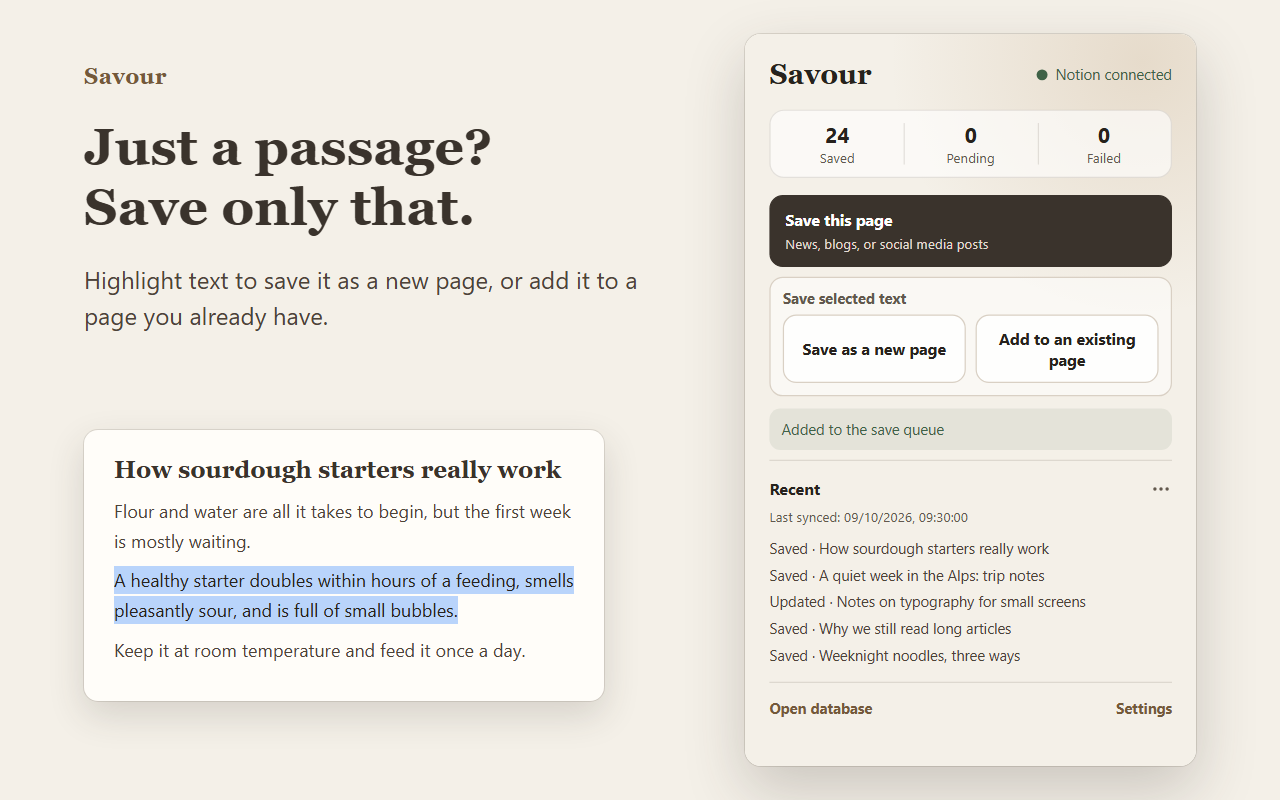
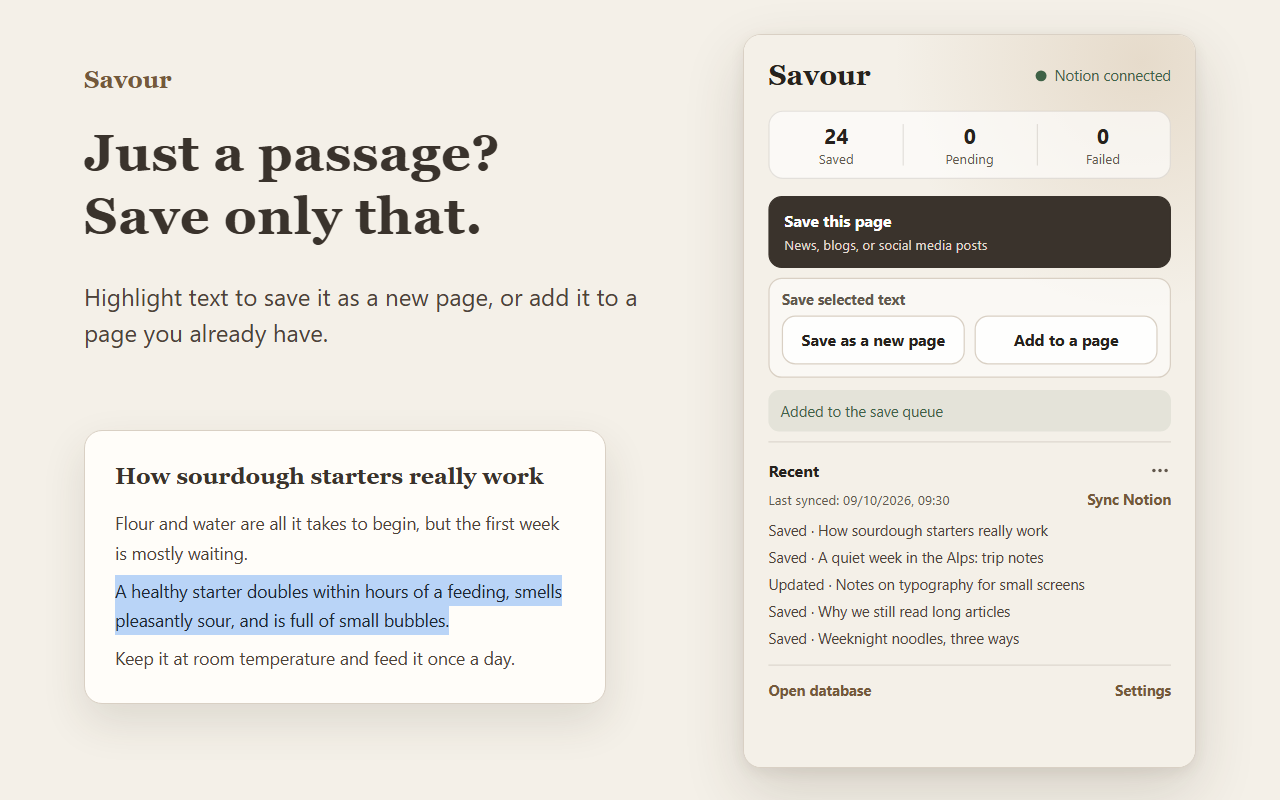
Store: retake the screenshots for the moved Sync Notion button, and keep the tool that takes them
The popup shots now show Sync Notion beside the last sync time and the one-line "Add to a page".
`npm run screenshots` loads the real popup and settings page with a fake chrome API and demo data
and photographs them with headless Chrome.

diff --git a/scripts/store-screenshots/compose.html b/scripts/store-screenshots/compose.html
@@ -1,0 +1,94 @@
+<!doctype html>
+<!--
+  One store screenshot, 1280x800: the headline on the left, the real popup or settings page on the right
+  in an iframe. index.js opens it as compose.html?lang=zh|en&scene=save|selection|update|setup.
+  The headlines and the demo article live here; the demo data inside the popup lives in mock.js.
+-->
+<html>
+<head>
+<meta charset="utf-8">
+<link rel="stylesheet" href="/pages/tokens.css">
+<style>
+  html, body { margin: 0; width: 1280px; height: 800px; overflow: hidden; background: var(--bg); font-family: var(--font-sans); }
+  .copy { position: absolute; left: 84px; width: 560px; }
+  .copy.center { top: 50%; transform: translateY(-50%); }
+  .copy.top { top: 66px; }
+  .brand { font-family: var(--font-serif); font-weight: 700; font-size: 24px; color: var(--accent); margin: 0 0 28px; }
+  h1 { font-family: var(--font-serif); font-weight: 700; font-size: 52px; line-height: 1.22; color: var(--brand); margin: 0 0 30px; letter-spacing: 0.01em; }
+  .sub { font-size: 24px; line-height: 1.5; color: var(--ink-soft); margin: 0; }
+  .card { position: absolute; right: 84px; border: 1px solid var(--line); border-radius: 18px; overflow: hidden; background: var(--bg);
+    box-shadow: 0 24px 60px rgba(60, 48, 34, 0.16), 0 4px 14px rgba(60, 48, 34, 0.08); }
+  iframe { border: 0; display: block; transform-origin: 0 0; }
+  .article { position: absolute; left: 84px; top: 430px; width: 460px; padding: 26px 30px 30px; background: var(--surface); border: 1px solid var(--line);
+    border-radius: 18px; box-shadow: 0 18px 44px rgba(60, 48, 34, 0.12); color: var(--ink-soft); font-size: 17.5px; line-height: 1.7; }
+  .article h2 { font-family: var(--font-serif); font-size: 23px; color: var(--brand); margin: 0 0 12px; }
+  .article p { margin: 0 0 8px; }
+  .article p:last-child { margin: 0; }
+  mark { background: #b9d4f7; color: #1d2733; padding: 4px 0; }
+</style>
+</head>
+<body>
+<script>
+const q = new URLSearchParams(location.search);
+const lang = q.get("lang") === "en" ? "en" : "zh";
+const scene = q.get("scene") || "save";
+const COPY = {
+  zh: {
+    save: ["先存再說，<br>之後慢慢讀。", "點一下，把感興趣的內容存進自己的 Notion。"],
+    selection: ["只存一段，<br>也可以。", "反白文字存成新頁面，或加到已有的頁面。"],
+    update: ["原文變更，<br>更新就好。", "用最新內容換掉原文，你寫的筆記都留在原位。"],
+    setup: ["連線一次，<br>開始保存。", "文章與貼文直接從你的瀏覽器送到你自己的 Notion 資料庫。"],
+    article: ["酸種麵包的酵母到底怎麼養", "只需要麵粉和水就能開始，但第一週大多是在等待。", "健康的酵母在餵食後幾小時內就會長大一倍，帶著淡淡酸香，佈滿細小的氣泡。", "放在室溫下，每天餵食一次。"]
+  },
+  en: {
+    save: ["Save now.<br>Savour later.", "One click saves what interests you into your own Notion."],
+    selection: ["Just a passage?<br>Save only that.", "Highlight text to save it as a new page, or add it to a page you already have."],
+    update: ["Content changed?<br>Update it.", "Replace the saved original with the latest version. Your notes stay where you put them."],
+    setup: ["Connect once.<br>Keep it yours.", "Your articles and posts go straight from your browser to your own Notion database."],
+    article: ["How sourdough starters really work", "Flour and water are all it takes to begin, but the first week is mostly waiting.", "A healthy starter doubles within hours of a feeding, smells pleasantly sour, and is full of small bubbles.", "Keep it at room temperature and feed it once a day."]
+  }
+}[lang];
+document.documentElement.lang = lang === "en" ? "en" : "zh-Hant";
+const [headline, sub] = COPY[scene];
+document.body.insertAdjacentHTML("beforeend",
+  `<div class="copy ${scene === "selection" ? "top" : "center"}"><p class="brand">Savour</p><h1>${headline}</h1><p class="sub">${sub}</p></div>`);
+if (scene === "selection") {
+  const [title, a, b, c] = COPY.article;
+  document.body.insertAdjacentHTML("beforeend", `<div class="article"><h2>${title}</h2><p>${a}</p><p><mark>${b}</mark></p><p>${c}</p></div>`);
+}
+const card = document.createElement("div");
+card.className = "card";
+const frame = document.createElement("iframe");
+card.appendChild(frame);
+document.body.appendChild(card);
+const MAX_H = 760;
+function place(width, scale, contentHeight, minHeight) {
+  let height = Math.max(contentHeight * scale, minHeight);
+  if (height > MAX_H) { scale = MAX_H / contentHeight; height = MAX_H; }
+  frame.style.width = `${width}px`;
+  frame.style.height = `${height / scale}px`;
+  frame.style.transform = `scale(${scale})`;
+  card.style.width = `${width * scale}px`;
+  card.style.height = `${height}px`;
+  card.style.top = `${(800 - height) / 2}px`;
+}
+if (scene === "setup") {
+  frame.src = `/pages/options/options.html?lang=${lang}&scene=${scene}`;
+  place(780, 0.7, 720 / 0.7, 720);
+  frame.addEventListener("load", () => setTimeout(() => {
+    const doc = frame.contentDocument;
+    const section = doc.querySelectorAll(".form-card")[1];
+    doc.documentElement.style.scrollbarWidth = "none";
+    frame.contentWindow.scrollTo(0, section.getBoundingClientRect().top + frame.contentWindow.scrollY - 24);
+  }, 600));
+} else {
+  frame.src = `/pages/popup/popup.html?lang=${lang}&scene=${scene}`;
+  place(370, 1.22, 600, 732);
+  frame.addEventListener("load", () => setTimeout(() => {
+    const doc = frame.contentDocument;
+    place(370, 1.22, doc.querySelector(".popup-shell").getBoundingClientRect().height, 732);
+  }, scene === "selection" ? 1200 : 500));
+}
+</script>
+</body>
+</html>

diff --git a/scripts/store-screenshots/index.js b/scripts/store-screenshots/index.js
@@ -1,0 +1,114 @@
+/**
+ * Retakes the Chrome Web Store screenshots: store/screenshots/<zh-TW|en>/01-save … 04-setup, 1280x800 each.
+ *
+ * Serves this folder as a website, loads the real popup.html and options.html with a fake chrome API
+ * (mock.js) and demo data, lays each one out next to its headline (compose.html) and photographs it with
+ * headless Chrome. It does not touch the extension's code or the promo tiles in store/promo.
+ *
+ * Usage: npm run screenshots   (set CHROME_PATH when Chrome is not in its usual place)
+ */
+"use strict";
+
+const fs = require("node:fs");
+const http = require("node:http");
+const os = require("node:os");
+const path = require("node:path");
+const { execFile } = require("node:child_process");
+const { promisify } = require("node:util");
+
+const run = promisify(execFile);
+
+const ROOT = path.resolve(__dirname, "../..");
+const OUT = path.join(ROOT, "store", "screenshots");
+const LANGUAGES = [["zh", "zh-TW"], ["en", "en"]];
+const SCENES = ["save", "selection", "update", "setup"];
+const TYPES = /** @type {Record<string, string>} */ ({
+  ".html": "text/html; charset=utf-8",
+  ".js": "text/javascript; charset=utf-8",
+  ".css": "text/css; charset=utf-8",
+  ".png": "image/png",
+  ".svg": "image/svg+xml"
+});
+
+// ---- Local server ----
+
+// The extension's pages get mock.js first, so `chrome` exists before their own scripts run.
+const EXTENSION_PAGE = /^\/pages\/(?:popup|options)\/[\w-]+\.html$/;
+
+function serve(/** @type {http.IncomingMessage} */ request, /** @type {http.ServerResponse} */ response) {
+  const pathname = decodeURIComponent(new URL(request.url ?? "/", "http://localhost").pathname);
+  const file = pathname === "/mock.js" || pathname === "/compose.html"
+    ? path.join(__dirname, pathname)
+    : path.join(ROOT, pathname);
+  if (!path.resolve(file).startsWith(ROOT)) {
+    response.writeHead(403).end();
+    return;
+  }
+  fs.readFile(file, (error, data) => {
+    if (error) {
+      response.writeHead(404).end();
+      return;
+    }
+    const body = EXTENSION_PAGE.test(pathname)
+      ? String(data).replace("<head>", '<head><script src="/mock.js"></script>')
+      : data;
+    response.writeHead(200, { "content-type": TYPES[path.extname(file)] ?? "application/octet-stream", "cache-control": "no-store" });
+    response.end(body);
+  });
+}
+
+// ---- Chrome ----
+
+function findChrome() {
+  const candidates = [
+    process.env.CHROME_PATH,
+    "C:/Program Files/Google/Chrome/Application/chrome.exe",
+    "C:/Program Files (x86)/Google/Chrome/Application/chrome.exe",
+    "/Applications/Google Chrome.app/Contents/MacOS/Google Chrome",
+    "/usr/bin/google-chrome",
+    "/usr/bin/chromium"
+  ];
+  const found = candidates.find(candidate => candidate && fs.existsSync(candidate));
+  if (!found) throw new Error("Chrome not found. Set CHROME_PATH to the Chrome executable.");
+  return found;
+}
+
+// Not execFileSync: the server above has to keep answering while Chrome runs.
+function shoot(/** @type {string} */ chromePath, /** @type {string} */ url, /** @type {string} */ file, /** @type {string} */ profile) {
+  return run(chromePath, [
+    "--headless=new",
+    "--disable-gpu",
+    "--hide-scrollbars",
+    "--force-device-scale-factor=1",
+    "--window-size=1280,800",
+    // Lets the page finish its own timers (the popup's refresh, the selection scene's click) before the shot.
+    "--virtual-time-budget=6000",
+    `--user-data-dir=${profile}`,
+    `--screenshot=${file}`,
+    url
+  ]);
+}
+
+// ---- Run ----
+
+const chromePath = findChrome();
+const profile = fs.mkdtempSync(path.join(os.tmpdir(), "savour-screenshots-"));
+const server = http.createServer(serve).listen(0, "127.0.0.1", async () => {
+  const { port } = /** @type {import("node:net").AddressInfo} */ (server.address());
+  try {
+    for (const [language, folder] of LANGUAGES) {
+      fs.mkdirSync(path.join(OUT, folder), { recursive: true });
+      for (const [index, scene] of SCENES.entries()) {
+        const file = path.join(OUT, folder, `0${index + 1}-${scene}.png`);
+        await shoot(chromePath, `http://127.0.0.1:${port}/compose.html?lang=${language}&scene=${scene}`, file, profile);
+        console.log(path.relative(ROOT, file));
+      }
+    }
+  } catch (error) {
+    console.error(error.message);
+    process.exitCode = 1;
+  } finally {
+    server.close();
+    fs.rmSync(profile, { recursive: true, force: true });
+  }
+});

diff --git a/scripts/store-screenshots/mock.js b/scripts/store-screenshots/mock.js
@@ -1,0 +1,56 @@
+/**
+ * A fake `chrome` API with demo data, so popup.html and options.html render outside the extension.
+ *
+ * Injected by index.js ahead of the page's own scripts. Answers only the messages those two pages send
+ * while a screenshot is taken; `?lang=zh|en` picks the language and `?scene=` the state to show.
+ */
+"use strict";
+
+(() => {
+  const q = new URLSearchParams(location.search);
+  const lang = q.get("lang") === "en" ? "en" : "zh";
+  const scene = q.get("scene") || "save";
+  const page = n => `https://www.notion.so/demo-${n}`;
+  const titles = lang === "en"
+    ? ["How sourdough starters really work", "A quiet week in the Alps: trip notes", "Notes on typography for small screens", "Why we still read long articles", "Weeknight noodles, three ways"]
+    : ["酸種麵包的酵母到底怎麼養", "阿爾卑斯山的安靜一週：旅行筆記", "給小螢幕的排版筆記", "為什麼我們還是愛讀長文", "平日晚餐的三種拌麵"];
+  const DB = "https://www.notion.so/0123456789abcdef0123456789abcdef";
+  const status = {
+    configured: true, hasToken: true, hasArchive: true, databaseUrl: DB, archiveName: "留己看",
+    pending: 0, failed: 0, saved: 24, incompleteThreads: [],
+    recent: titles.map((title, i) => ({ key: `k${i}`, title, notionUrl: page(i), result: i === 2 ? "updated" : "saved", at: "" })),
+    lastSyncedAt: new Date(2026, 9, 9, 9, 30, 0).toISOString()
+  };
+  const handlers = {
+    TAKE_PENDING_PICKER: () => ({}),
+    GET_STATUS: () => status,
+    GET_ACTIVE_PAGE_STATUS: () => scene === "update"
+      ? { supported: true, status: "saved", title: titles[2], notionUrl: page(2) }
+      : { supported: true, status: "new", title: "", notionUrl: "" },
+    CAPTURE_ACTIVE_SELECTION: () => ({ ...status, added: 1, duplicates: 0, captureSummary: { longTextCount: 0, imageCount: 0, warnings: [] } }),
+    GET_CONFIG: () => ({ hasToken: true, rememberToken: true, uiLanguage: lang, parentPageUrl: "", archiveName: "留己看", databaseUrl: DB, dataSourceId: "0123456789abcdef0123456789abcdef", archiveTarget: "" }),
+    LIST_NOTION_DATA_SOURCES: () => ({
+      dataSources: [
+        { id: "0123456789abcdef0123456789abcdef", title: lang === "en" ? "For Later Me" : "留己看", emoji: "📚" },
+        { id: "fedcba9876543210fedcba9876543210", title: lang === "en" ? "Reading notes" : "閱讀筆記", emoji: "📝" }
+      ],
+      limitReached: false
+    })
+  };
+  window.chrome = {
+    i18n: { getUILanguage: () => (lang === "en" ? "en-US" : "zh-TW") },
+    storage: { local: { get: async () => ({ savourConfig: { uiLanguage: lang } }) } },
+    tabs: { create: async () => ({}) },
+    runtime: {
+      openOptionsPage: async () => {},
+      sendMessage: async message => {
+        const handler = handlers[message?.type];
+        return handler ? { ok: true, result: handler(message) } : { ok: false, error: `no mock for ${message?.type}` };
+      }
+    }
+  };
+  // The selection scene shows the message a real save leaves behind.
+  if (scene === "selection") {
+    window.addEventListener("load", () => setTimeout(() => document.getElementById("save-selection")?.click(), 300));
+  }
+})();

diff --git a/store/listing.md b/store/listing.md
@@ -139,3 +139,8 @@ Steps:
 7. Optional: select some text on a page, right-click > "Save selected text to Notion" to add it as a new page.
 
 The extension does nothing until the user triggers a save. Saving social posts (Threads, Plurk, X, Instagram, Facebook, LinkedIn) works the same way on a single-post page, but needs an account on those sites, so the steps above use a public web article.
+
+## 截圖與宣傳圖
+
+- 截圖：`store/screenshots/zh-TW` 與 `store/screenshots/en`，各 4 張，1280x800。介面有變動時執行 `npm run screenshots` 重拍；工具在 `scripts/store-screenshots/`，用真正的 popup 與設定頁配上示範資料拍攝，標語與示範內容也寫在那裡。
+- 小型宣傳圖：`store/promo`，不由上面的指令產生。
